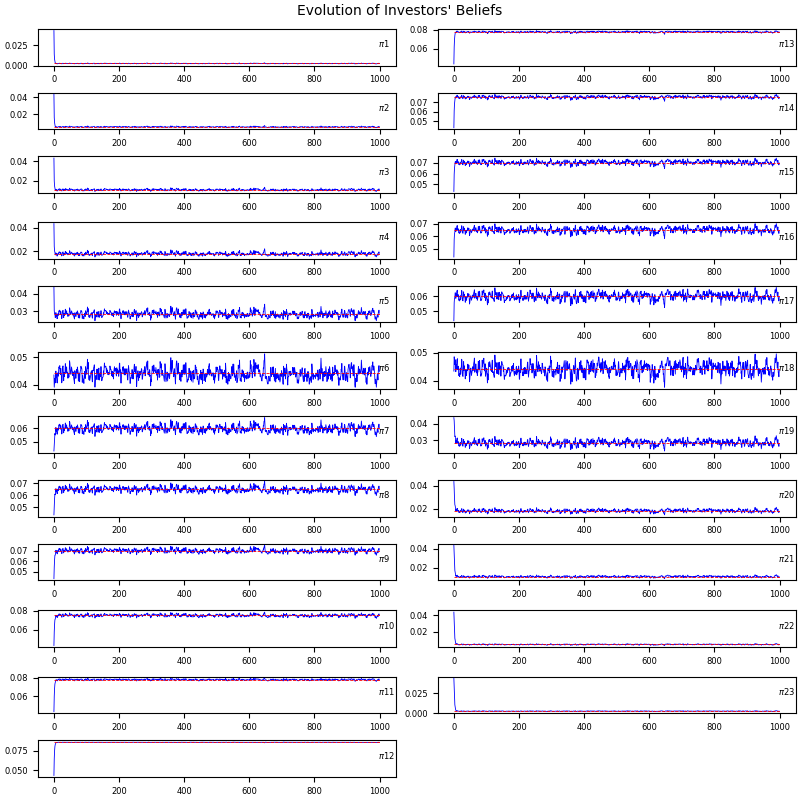
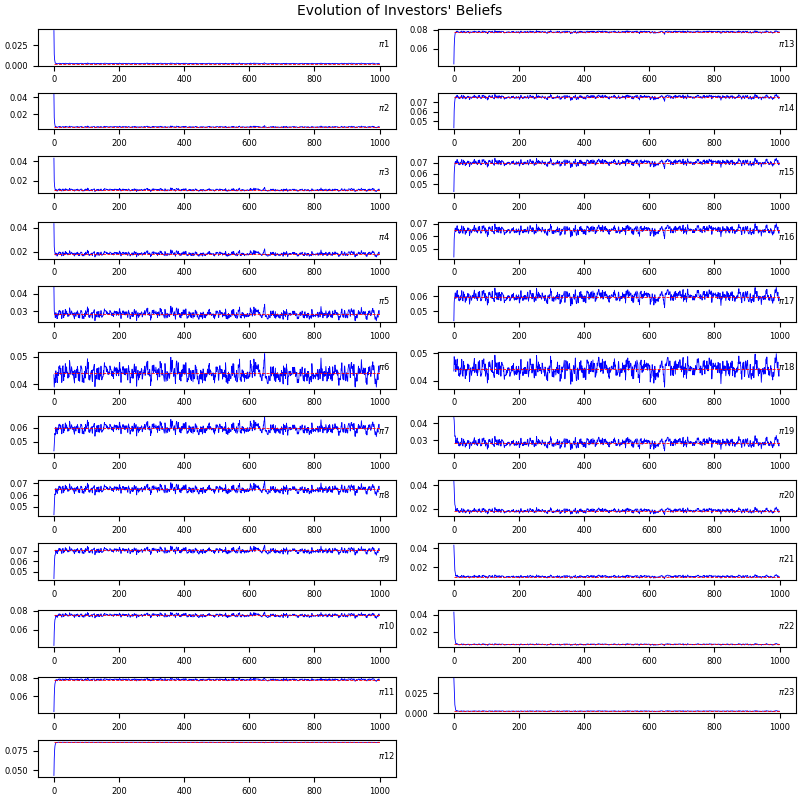
Update 7

diff --git a/veronesi 2000.py b/veronesi 2000.py
@@ -104,6 +104,7 @@ sigma_D = 0.10
 sigma_e = 0.15
 h_D = 1 / sigma_D
 h_e = 1 / sigma_e
+k = h_D ** 2 + h_e ** 2
 
 # Plot unconditional and prior distributions
 
@@ -121,13 +122,13 @@ fig_2.savefig('images/fig_2.png')
 
 # Stochastic drift
 
-drift = np.random.choice(a=thetas, size=1, p=f1)
+drift = np.random.choice(a=thetas, size=1, p=f1.reshape(-1))
 
 for t in range(periods-1):
 
     if np.random.uniform(low=0.0, high=1.0) < p * dt:
 
-        drift = np.append(drift, np.random.choice(a=thetas, size=1, p=f1))
+        drift = np.append(drift, np.random.choice(a=thetas, size=1, p=f1.reshape(-1)))
 
     else:
 
@@ -194,17 +195,17 @@ def mtheta(pis_):
 
 # Simulated the evolution of beliefs
 
-dpis_evo = np.zeros(shape=(periods, n))
-pis_evo = np.zeros(shape=(periods, n))
-pis_evo[0,:] = pis
+dpis_evo_1 = np.zeros(shape=(periods, n))
+pis_evo_1 = np.zeros(shape=(periods, n))
+pis_evo_1[0,:] = pis
 
 for t in range(periods-1):
 
-    m_theta = mtheta(pis_evo[t, :])
-    dBD_tilde = h_D * (dDD_sim[t] - m_theta * dt)
-    dBe_tilde = h_e * (de_sim[t] - m_theta * dt)
-    dpis_evo[t,:] = p * (f1 - pis_evo[t,:]) * dt + pis_evo[t,:] * (thetas - m_theta) * (h_D * dBD_tilde + h_e * dBe_tilde)
-    pis_evo[t+1,:] = pis_evo[t,:] + dpis_evo[t,:]
+    m_theta_1 = mtheta(pis_evo_1[t, :])
+    dBD_tilde = h_D * (dDD_sim[t] - m_theta_1 * dt)
+    dBe_tilde = h_e * (de_sim[t] - m_theta_1 * dt)
+    dpis_evo_1[t,:] = p * (f1 - pis_evo_1[t,:]) * dt + pis_evo_1[t,:] * (thetas - m_theta_1) * (h_D * dBD_tilde + h_e * dBe_tilde)
+    pis_evo_1[t+1,:] = pis_evo_1[t,:] + dpis_evo_1[t,:]
 
 # Plot the simulated evolution of beliefs
 
@@ -224,10 +225,10 @@ for i in range(23):
         row -= 12
 
     ax = fig_4.add_subplot(gs[row, col])
-    ax.plot(pis_evo[:, i], color='b', linewidth=0.6, zorder=5)
+    ax.plot(pis_evo_1[:, i], color='b', linewidth=0.6, zorder=5)
     ax.hlines(y=f1[0, i], xmin=0, xmax=periods, color='r', linestyles='dashed', linewidth=0.6, zorder=10)
     ax.tick_params(axis='both', labelsize='6')
-    plt.text(995, (np.max(pis_evo[:, i]) + np.min(pis_evo[:, i]))/2, '$\pi {}$'.format(i + 1), fontsize=6)
+    plt.text(995, (np.max(pis_evo_1[:, i]) + np.min(pis_evo_1[:, i]))/2, '$\pi {}$'.format(i + 1), fontsize=6)
 
 fig_4.suptitle("Evolution of Investors' Beliefs", fontsize=10)
 
@@ -252,24 +253,137 @@ for i in range(4):
 
 # Plot the evolution of the known drift
 
-# Plot utility function
-
 fig_5, ax = plt.subplots(nrows=1, ncols=1, figsize=(5.5, 4))
 
 ax.plot(theta_ell, color='b')
 ax.hlines(y=0, xmin=0, xmax=periods, color='black', linestyles='dashed')
-plt.text(4.4, 4.9, '$\gamma$=0.0')
-plt.text(4.4, 3.9, '$\gamma$=0.5')
-plt.text(4.4, 1.1, '$\gamma$=1.0')
-plt.text(4.4, -0.7, '$\gamma$=1.5')
-plt.text(4.4, -1.4, '$\gamma$=2.0')
-ax.set_ylabel('U(C)', fontsize=10)
-ax.set_xlabel('C', fontsize=10)
-ax.set_title('U(C) for varying $\gamma$',fontsize=10)
-ax.set_xlim(xmin=np.min(cons), xmax=np.max(cons))
 
-fig_1.tight_layout()
-fig_1.savefig('images/fig_1.png')
+for i in range(10):
+
+    loc = 100 * i
+    plt.text(loc+15, theta_ell[loc]+0.0001, '{:.4f}'.format(theta_ell[loc]), fontsize=6)
+
+ax.set_ylabel(r'$\theta_\ell$', fontsize=10)
+ax.set_xlabel('t', fontsize=10)
+ax.set_title('Evolution of ' + r'$\theta_\ell$',fontsize=10)
+ax.set_xlim(xmin=0, xmax=periods)
+
+fig_5.tight_layout()
+fig_5.savefig('images/fig_5.png')
+
+# Simulated the evolution of beliefs
+
+dpis_evo_2 = np.zeros(shape=(periods, n))
+pis_evo_2 = np.zeros(shape=(periods, n))
+pis_evo_2[0,:] = pis
+
+for t in range(periods-1):
+
+    m_theta_2 = mtheta(pis_evo_2[t, :])
+    dBD = (dDD_sim[t] - drift[t] * dt) / sigma_D
+    dBe = (de_sim[t] - drift[t] * dt) / sigma_e
+    dpis_evo_2[t,:] = (p * (f1 - pis_evo_2[t,:]) + k * pis_evo_2[t,:] * (thetas - m_theta_2) * (theta_ell[t] - m_theta_2)) * dt + \
+                       pis_evo_2[t,:] * (thetas - m_theta_2) * (h_D * dBD + h_e * dBe)
+    pis_evo_2[t+1,:] = pis_evo_2[t,:] + dpis_evo_2[t,:]
+
+################################# DELETE #################################
+
+divid = ItoProcess(x0=1, mu=0.006, sigma=sigma_D, dt=dt, T=T, change=True, seed=987654321)
+D_sim, dD_sim = divid.simulate()
+dDD_sim = dD_sim / D_sim
+dDD_sim = dDD_sim[:-1]
+
+signal = GeneralizedBrownianMotion(x0=1, mu=0.006, sigma=sigma_e, dt=dt, T=T, change=True, seed=123456789)
+e_sim, de_sim = signal.simulate()
+de_sim = de_sim[:-1]
+
+dpis_evo_2 = np.zeros(shape=(periods, n))
+pis_evo_2 = np.zeros(shape=(periods, n))
+pis_evo_2[0,:] = pis
+comp_1 = np.zeros(shape=(periods, n))
+comp_2 = np.zeros(shape=(periods, n))
+comp_12 = np.zeros(shape=(periods, n))
+
+for t in range(periods-1):
+
+    m_theta_2 = mtheta(pis_evo_2[t, :])
+    dBD = h_D * (dDD_sim[t] - 0.006 * dt)
+    dBe = h_e * (de_sim[t] - 0.006 * dt)
+    dpis_evo_2[t,:] = (p * (f1 - pis_evo_2[t,:]) + k * pis_evo_2[t,:] * (thetas - m_theta_2) * (0.006 - m_theta_2)) * dt + \
+                       pis_evo_2[t,:] * (thetas - m_theta_2) * (h_D * dBD + h_e * dBe)
+    pis_evo_2[t+1,:] = pis_evo_2[t,:] + dpis_evo_2[t,:]
+
+    comp_1[t,:] = p * (f1 - pis_evo_2[t,:])
+    comp_2[t,:] = k * pis_evo_2[t, :] * (thetas - m_theta_2) * (0.006 - m_theta_2)
+    comp_12[t,:] = p * (f1 - pis_evo_2[t,:]) + k * pis_evo_2[t,:] * (thetas - m_theta_2) * (0.006 - m_theta_2)
+
+##########################################################################
+
+# Plot the simulated evolution of beliefs
+
+fig_6 = plt.figure(constrained_layout=True, figsize=(8, 8))
+
+gs = plt.GridSpec(12, 2, figure=fig_6)
+
+col = 0
+row = 0
+
+for i in range(23):
+
+    row = i
+
+    if row > 11:
+        col = 1
+        row -= 12
+
+    ax = fig_6.add_subplot(gs[row, col])
+    ax.plot(pis_evo_2[:, i], color='b', linewidth=0.6, zorder=5)
+    ax.hlines(y=f1[0, i], xmin=0, xmax=periods, color='r', linestyles='dashed', linewidth=0.6, zorder=10)
+    ax.tick_params(axis='both', labelsize='6')
+    plt.text(995, (np.max(pis_evo_2[:, i]) + np.min(pis_evo_2[:, i]))/2, '$\pi {}$'.format(i + 1), fontsize=6)
+
+fig_6.suptitle("Evolution of Investors' Beliefs - True Drift Rate Known", fontsize=10)
+
+fig_6.savefig('images/fig_6.png')
+
+# Detailed analysis
+
+theta_ell_spec = np.unique(theta_ell[200:300])
+theta_spec = list(thetas).index(theta_ell_spec)
+
+a = np.array([1,2,3,4,4,4,5,6,4,4,4])
+
+
+fig_7, ax = plt.subplots(nrows=1, ncols=2, figsize=(11, 4))
+
+ax[0].plot(pis_evo_2[200:300, theta_spec], color='b', label='Dividend')
+ax[0].plot(pis_evo_1[200:300, theta_spec], color='r', label='Dividend')
+ax[1].plot(pis_evo_2[200:300, 18], color='b', label='Dividend', zorder=5)
+
+
+
+
+ax[0].hlines(y=0, xmin=0, xmax=periods, color='black', linestyles='dashed')
+
+ax[0].hlines(y=1, xmin=0, xmax=periods, color='black', linestyles='dashed')
+ax[0].set_ylabel(r'$D$' + ' and ' + r'$e$', fontsize=10)
+ax[0].set_xlabel('t', fontsize=10)
+ax[0].set_title(r'$D(t+1)=D(t) + dD(t)$' + ' and ' + r'$e(t+1)=e(t) + de(t)$', fontsize=10)
+ax[0].legend(loc='upper left', fontsize=10)
+ax[0].set_xlim(xmin=0, xmax=periods)
+
+ax[1].plot(pis_evo_2[:, 18], color='r', label='Dividend', zorder=5)
+ax[1].plot(de_sim, color='r', label='Signal', zorder=0)
+ax[1].hlines(y=0, xmin=0, xmax=periods, color='black', linestyles='dashed', zorder=10)
+ax[1].set_ylabel(r'$\frac{dD}{D}$' + ' and ' + r'$de$', fontsize=10)
+ax[1].set_xlabel('t', fontsize=10)
+ax[1].set_title(r'$\frac{dD}{D}=\theta dt + \sigma_D dB_D$' + ' and ' + r'$de=\theta dt + \sigma_e dB_e$', fontsize=10)
+ax[1].legend(loc='upper left', fontsize=10)
+ax[1].set_xlim(xmin=0, xmax=periods)
+
+fig_7.tight_layout()
+fig_7.savefig('images/fig_7.png')
+
 
 
 
@@ -302,8 +416,6 @@ plt.show()
 
 
 
-# np.unique(drift)
-# np.ndim(drift) != 0 and np.size(drift, 0) == round(T/dt):
 
 
 
@@ -391,21 +503,19 @@ plt.show()
 
 
 
-# k = h_D ** 2 + h_e ** 2
-
 # Stochastic differential equation (6)
 
 # for t in range(int(T/dt)):
 
 #     dB_D = np.random.normal(0,1)
 #     dB_e = np.random.normal(0,1)
-#     m_theta = np.sum(pi[t,:] * thetas)
+#     m_theta_1 = np.sum(pi[t,:] * thetas)
 #     print(min(pi[t,:]), max(pi[t,:]), sum(pi[t,:]))
 
 #     for i in range(n):
 
-#         dlog_pi[t+1, i] = (p * (f[i] - pi[t, i]) / pi[t, i] + k * (thetas[i] - m_theta) * (theta_ell - m_theta)) * dt \
-#                           + (thetas[i] - m_theta) * (h_D * dB_D + h_e * dB_e) - 0.5 * (thetas[i] - m_theta) ** 2 * (h_D ** 2 + h_e ** 2) * dt
+#         dlog_pi[t+1, i] = (p * (f[i] - pi[t, i]) / pi[t, i] + k * (thetas[i] - m_theta_1) * (theta_ell - m_theta_1)) * dt \
+#                           + (thetas[i] - m_theta_1) * (h_D * dB_D + h_e * dB_e) - 0.5 * (thetas[i] - m_theta_1) ** 2 * (h_D ** 2 + h_e ** 2) * dt
 
 #         log_pi[t+1, i] = log_pi[t, i] + dlog_pi[t+1, i]
 
@@ -421,13 +531,13 @@ plt.show()
 
 #     dB_D = np.random.normal(0,1)
 #     dB_e = np.random.normal(0,1)
-#     m_theta = np.sum(pi[t,:] * thetas)
+#     m_theta_1 = np.sum(pi[t,:] * thetas)
 #     print(min(pi[t,:]), max(pi[t,:]), sum(pi[t,:]))
 
 #     for i in range(n):
 
-#         dpi[t+1,i] = (p * (f[i] - pi[t,i]) + k * pi[t,i] * (thetas[i] - m_theta) * (theta_ell - m_theta)) * dt \
-#                      + pi[t,i] * (thetas[i] - m_theta) * (h_D * dB_D + h_e * dB_e)
+#         dpi[t+1,i] = (p * (f[i] - pi[t,i]) + k * pi[t,i] * (thetas[i] - m_theta_1) * (theta_ell - m_theta_1)) * dt \
+#                      + pi[t,i] * (thetas[i] - m_theta_1) * (h_D * dB_D + h_e * dB_e)
 #         pi[t+1,i] = pi[t,i] + dpi[t+1,i]
 
 #     print(min(dpi[t + 1, :]), max(dpi[t + 1, :]), sum(dpi[t + 1, :]))
